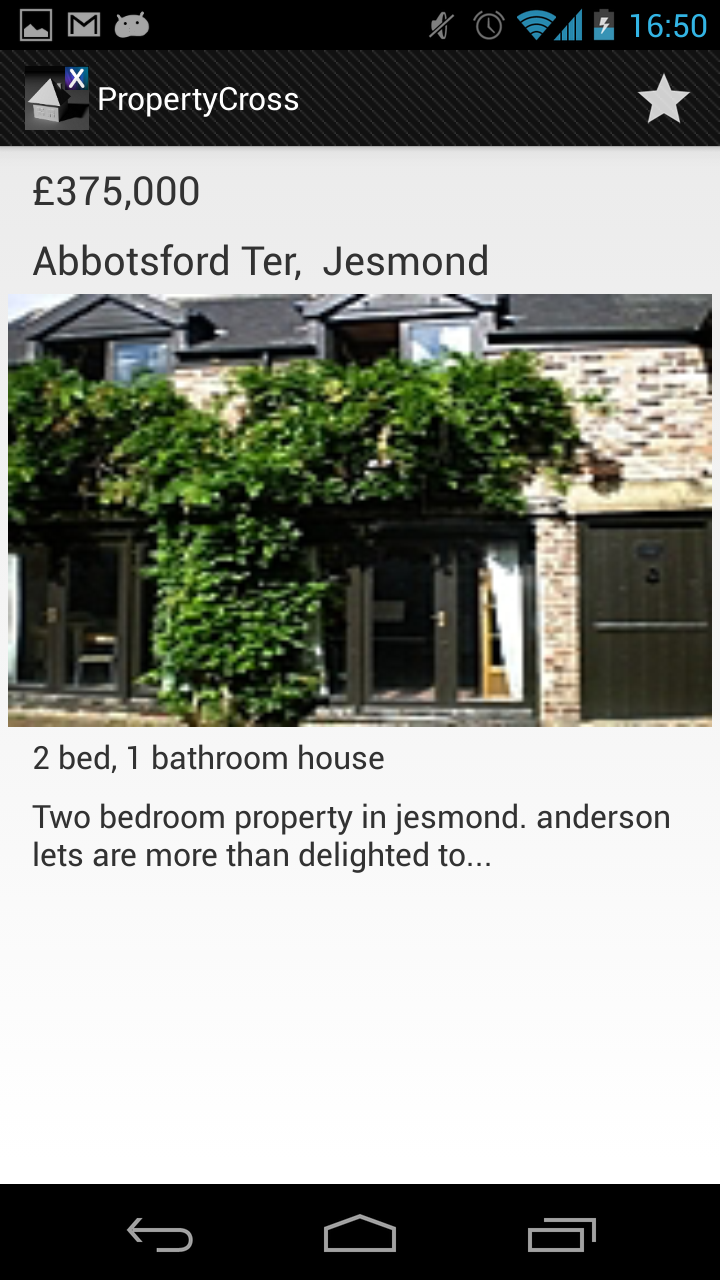
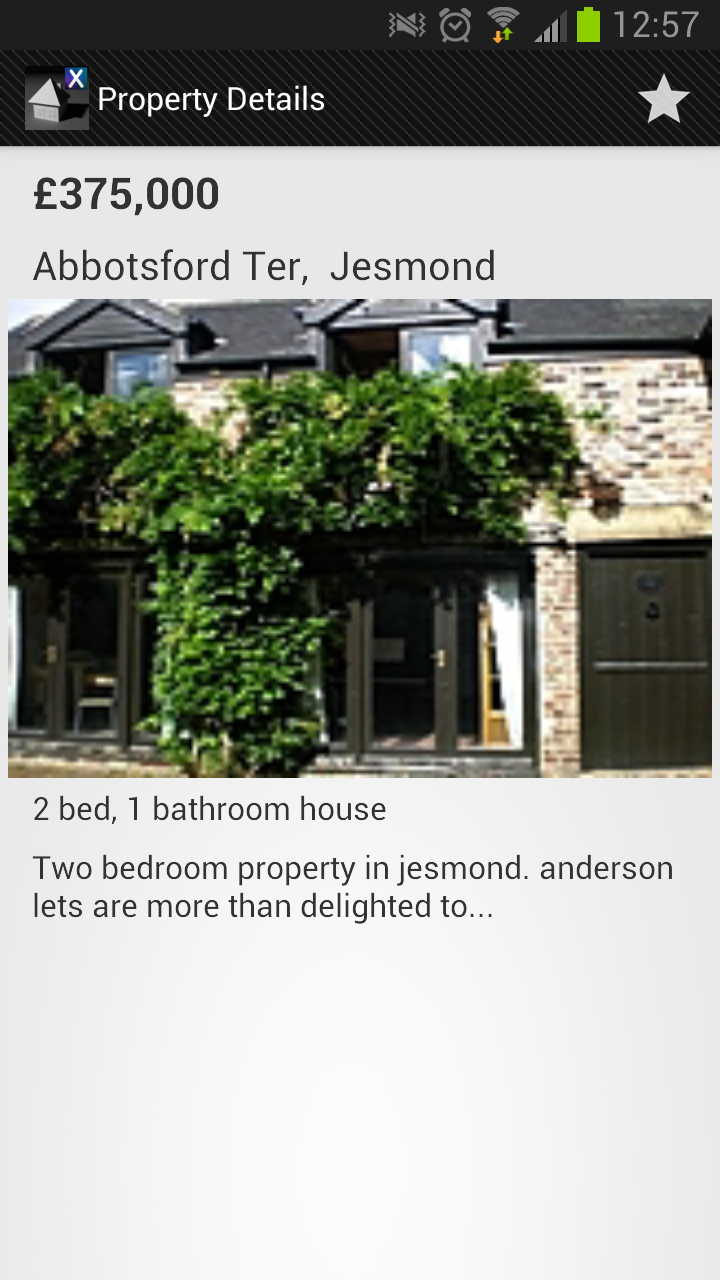
Aligning Xamarin Android UI. fixes #39

diff --git a/xamarin/android/PropertyCross/Resources/Resource.designer.cs b/xamarin/android/PropertyCross/Resources/Resource.designer.cs
@@ -330,17 +330,20 @@ namespace com.propertycross.xamarin.android
 			// aapt resource value: 0x7f060008
 			public const int abs__holo_blue_light = 2131099656;
 			
-			// aapt resource value: 0x7f060009
-			public const int abs__primary_text_disable_only_holo_dark = 2131099657;
-			
 			// aapt resource value: 0x7f06000a
-			public const int abs__primary_text_disable_only_holo_light = 2131099658;
+			public const int abs__primary_text_disable_only_holo_dark = 2131099658;
 			
 			// aapt resource value: 0x7f06000b
-			public const int abs__primary_text_holo_dark = 2131099659;
+			public const int abs__primary_text_disable_only_holo_light = 2131099659;
 			
 			// aapt resource value: 0x7f06000c
-			public const int abs__primary_text_holo_light = 2131099660;
+			public const int abs__primary_text_holo_dark = 2131099660;
+			
+			// aapt resource value: 0x7f06000d
+			public const int abs__primary_text_holo_light = 2131099661;
+			
+			// aapt resource value: 0x7f060009
+			public const int row_detail_color = 2131099657;
 			
 			private Color()
 			{
@@ -804,11 +807,11 @@ namespace com.propertycross.xamarin.android
 			// aapt resource value: 0x7f04002c
 			public const int property_price = 2130968620;
 			
-			// aapt resource value: 0x7f04002a
-			public const int property_search_details = 2130968618;
-			
 			// aapt resource value: 0x7f04002b
-			public const int property_search_price = 2130968619;
+			public const int property_search_details = 2130968619;
+			
+			// aapt resource value: 0x7f04002a
+			public const int property_search_price = 2130968618;
 			
 			// aapt resource value: 0x7f040029
 			public const int property_thumb = 2130968617;
@@ -1025,17 +1028,20 @@ namespace com.propertycross.xamarin.android
 			// aapt resource value: 0x7f090010
 			public const int favourites_view = 2131296272;
 			
-			// aapt resource value: 0x7f090017
-			public const int no_result_details = 2131296279;
+			// aapt resource value: 0x7f090018
+			public const int no_result_details = 2131296280;
 			
 			// aapt resource value: 0x7f090014
 			public const int property_details = 2131296276;
 			
-			// aapt resource value: 0x7f090018
-			public const int property_img_description = 2131296280;
+			// aapt resource value: 0x7f090019
+			public const int property_img_description = 2131296281;
 			
 			// aapt resource value: 0x7f090013
 			public const int property_summary = 2131296275;
+			
+			// aapt resource value: 0x7f09001a
+			public const int property_title = 2131296282;
 			
 			// aapt resource value: 0x7f09000e
 			public const int recent_searches = 2131296270;
@@ -1045,6 +1051,9 @@ namespace com.propertycross.xamarin.android
 			
 			// aapt resource value: 0x7f090016
 			public const int result_details = 2131296278;
+			
+			// aapt resource value: 0x7f090017
+			public const int results_shown = 2131296279;
 			
 			// aapt resource value: 0x7f09000b
 			public const int search_description = 2131296267;

diff --git a/xamarin/android/PropertyCross/Views/SearchResultsView.cs b/xamarin/android/PropertyCross/Views/SearchResultsView.cs
@@ -50,6 +50,9 @@ namespace com.propertycross.xamarin.android.Views
 			                                             totalResult);
 
 			((SearchResultsAdapter) ListAdapter).AddRange(properties);
+			SupportActionBar.Title = Java.Lang.String.Format(Resources.GetString(Resource.String.results_shown),
+			                                                 properties.Count,
+			                                                 totalResult);
         }
         
         public void SetLoadMoreVisible(bool visible)

diff --git a/xamarin/android/PropertyCross/Views/PropertyView.cs b/xamarin/android/PropertyCross/Views/PropertyView.cs
@@ -39,6 +39,9 @@ namespace com.propertycross.xamarin.android.Views
 			base.OnCreate(bundle);
 
 			SetContentView(Resource.Layout.property_view);
+
+			SupportActionBar.Title = Resources.GetString(Resource.String.property_title);
+
 			priceText = (TextView) FindViewById(Resource.Id.property_price);
 			locationText = (TextView)FindViewById(Resource.Id.property_location);
 			propertyImage = (ImageView) FindViewById(Resource.Id.property_image);

diff --git a/xamarin/android/PropertyCross/Views/FavouritesView.cs b/xamarin/android/PropertyCross/Views/FavouritesView.cs
@@ -26,6 +26,7 @@ namespace com.propertycross.xamarin.android.Views
 		{
 			base.OnCreate(bundle);
 
+			SupportActionBar.Title = Resources.GetString(Resource.String.favourites_view);
 			ListAdapter = new SearchResultsAdapter(this, new List<Property>() {});
 			
 			var app = (PropertyFinderApplication)Application;
